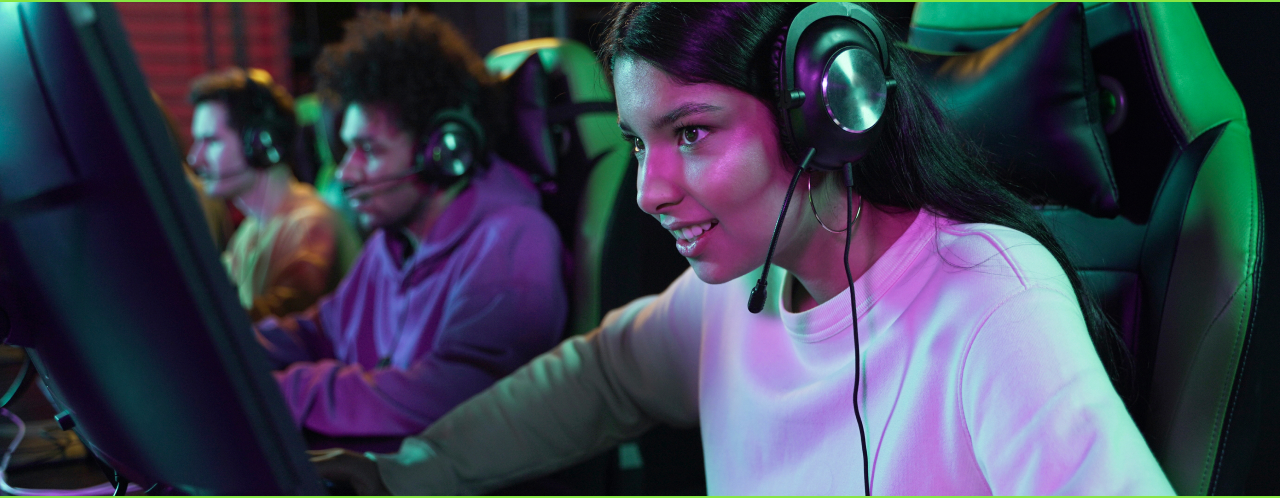
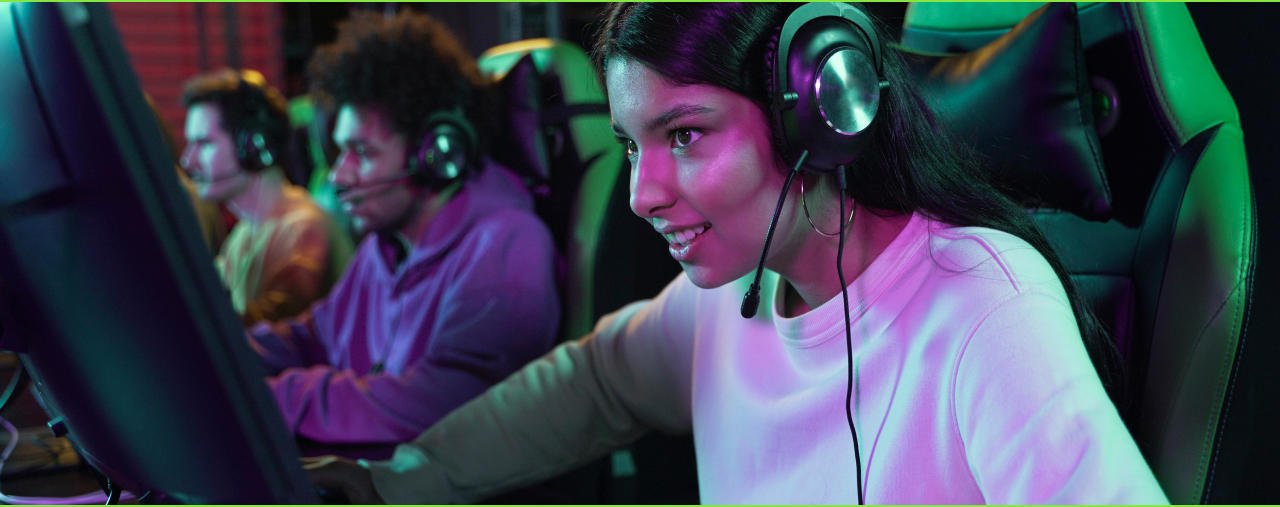
img desctop

diff --git a/src/partials/main-banner.html b/src/partials/main-banner.html
@@ -30,7 +30,7 @@
               <img
                 src="./images/banner/banner1.jpg"
                 width="1280"
-                height="498"
+                height="507"
                 alt="banner1"
               />
             </picture>
@@ -66,7 +66,7 @@
               <img
                 src="./images/banner/banner2.jpg"
                 width="1280"
-                height="498"
+                height="507"
                 alt="banner2"
               />
             </picture>
@@ -102,7 +102,7 @@
               <img
                 src="./images/banner/banner3.jpg "
                 width="1280"
-                height="498"
+                height="507"
                 alt="banner3"
               />
             </picture>
